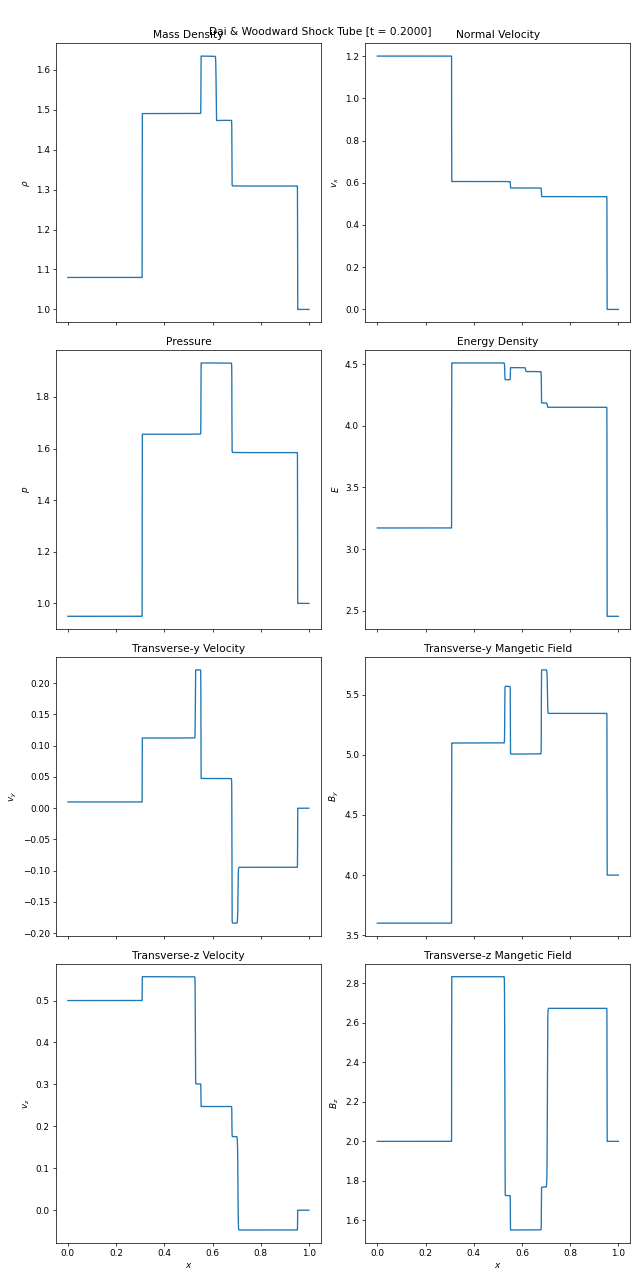
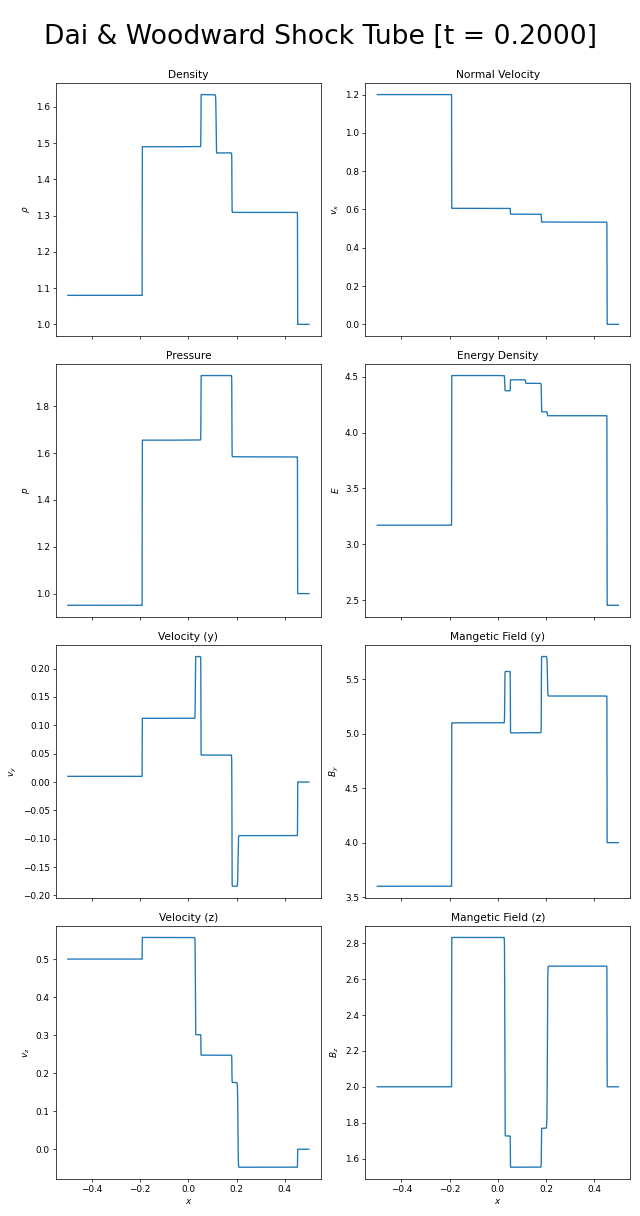
Reran Dai & Woodward (Minmod better on this one)

diff --git a/Examples/1D/Dai-Woodward/Config.h b/Examples/1D/Dai-Woodward/Config.h
@@ -111,7 +111,7 @@ inline std::string output_dir = "/Users/bobbiemarkwick/DRAGON_OUT"; //Set this t
 #define HDF5_REDUNDANT_VALS_OPTION HDF5_WRITE_FLOAT //Output precision of certain calculable values
     //Specifically, applies to Bx (2D+3D), By (2D+3D), Bz (3D only), and E (HDF5_WRITE_PRIMITIVE_AND_ENERGY only)
 
-//MARK: Grid Operation
+//MARK: Performance
 
 constexpr int core_count = 16; //Helps the Root level grid decide how many children to split into
 